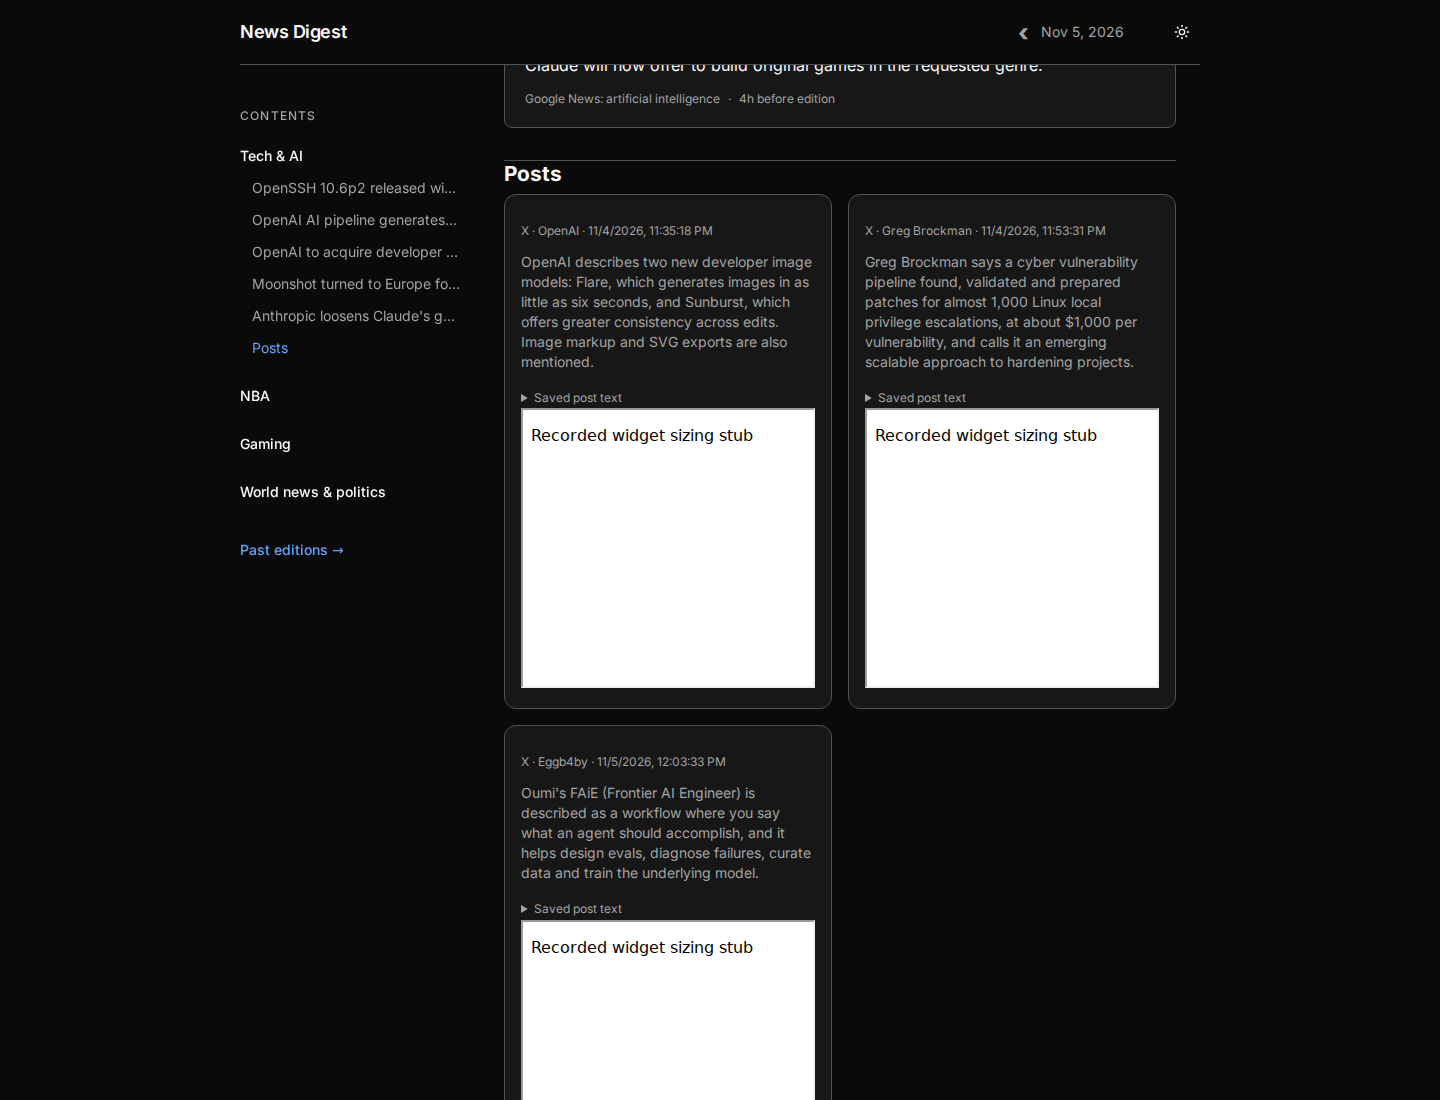
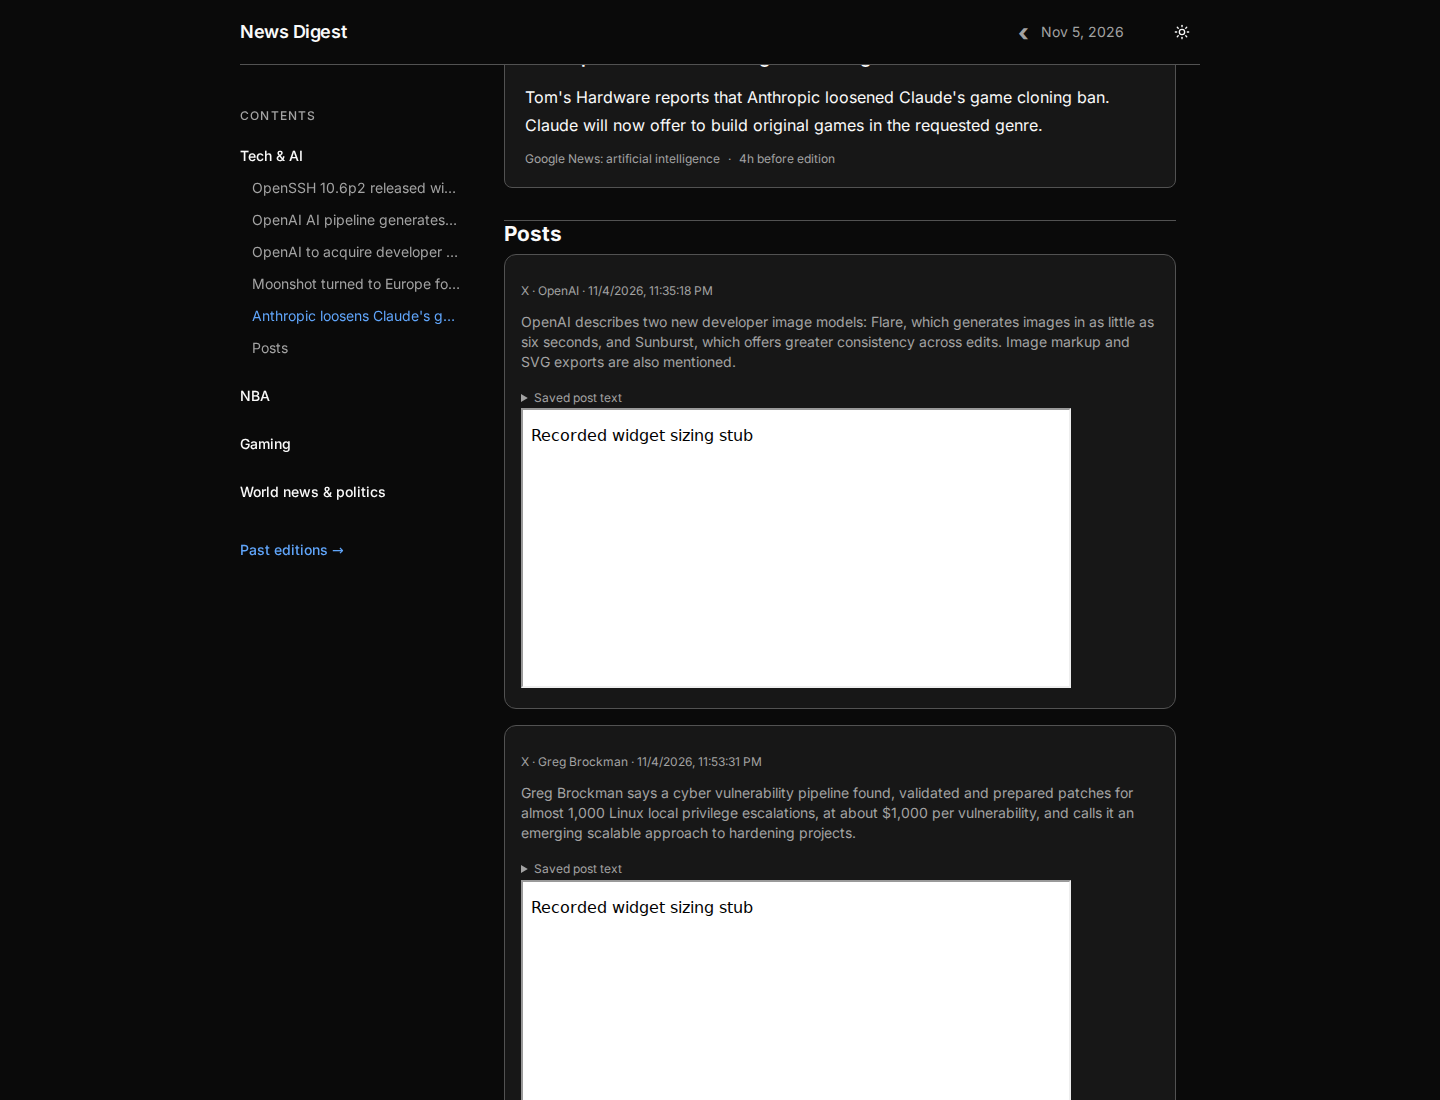
Show reader posts one per row at full column width

Changed region(s): [[0.3438, 0.0618, 0.8125, 0.6491], [0.3438, 0.68, 0.7812, 1.0], [0.1875, 0.2782, 0.3125, 0.3091]]

diff --git a/scripts/smoke-reader-layout.ts b/scripts/smoke-reader-layout.ts
@@ -66,6 +66,22 @@ async function smoke() {
           await page.locator('[data-slot="card"]').count(),
           edition.topics.reduce((n, topic) => n + topic.stories.length, 0),
         );
+        for (const grid of await page.locator('.post-grid').all()) {
+          const cards = await grid.locator('.post-card').all();
+          let previousBottom = 0;
+          for (const card of cards) {
+            const bounds = await card.boundingBox();
+            assert.ok(bounds);
+            assert.ok(bounds.y >= previousBottom, 'Posts occupy separate rows');
+            const gridBounds = await grid.boundingBox();
+            assert.ok(gridBounds);
+            assert.ok(
+              Math.abs(bounds.width - gridBounds.width) < 2,
+              'Each post fills the reader column',
+            );
+            previousBottom = bounds.y + bounds.height;
+          }
+        }
         const expectedContexts = edition.topics.flatMap((topic) =>
           topic.posts.flatMap((post) =>
             post.whyItMatters?.trim() ? [post.whyItMatters] : [],

diff --git a/apps/web/src/TopPosts.tsx b/apps/web/src/TopPosts.tsx
@@ -85,7 +85,7 @@ export function TopPosts({ posts }: { posts: ReaderPost[] }) {
           No standout posts today.
         </p>
       ) : (
-        <div className="post-grid">
+        <div className="post-grid grid grid-cols-1 gap-4">
           {posts.map((post) =>
             post.platform === 'bluesky' ? (
               <BlueskyPost key={`bluesky:${post.externalId}`} post={post} />

diff --git a/apps/web/src/style.css b/apps/web/src/style.css
@@ -586,11 +586,6 @@
     color: var(--secondary);
     font-size: 0.9rem;
   }
-  .post-grid {
-    display: grid;
-    gap: 1rem;
-    grid-template-columns: repeat(auto-fit, minmax(min(100%, 320px), 1fr));
-  }
   .post-card {
     min-width: 0;
     padding: 1rem;

diff --git a/PROGRESS.md b/PROGRESS.md
@@ -1,15 +1,3 @@
-## 2026-11-06: iteration 923 — reader contents and compact story layout
-
-- Started clean on main; no leftover work. Alerts/health green, 36/36 sources healthy, no failed digest runs. Higher priorities await Nov 6 publication/21:00 UTC.
-- Replaced the old edition/history panel with compact 672 px story cards, sticky desktop contents, active-topic/story tracking, mobile topic chips and a Contents sheet. Native hash links support smooth/reduced-motion scrolling and saved-edition deep links.
-- Kept saved briefs/summaries, expandable grouped articles and the archive; removed large story images and edition IDs/system copy from the reader. No changes to selection, collection, budgets or saved editions; no paid calls.
-- Fixed sheet closure by keeping native anchor behavior. Reserved space for the X retry control so media failures no longer shift later topics; offline widget recovery also passed. Live embed sizing remains final-reader work.
-- Verification: pnpm format; pnpm lint:fix; pnpm check (543 unit/224 isolated integration tests); pnpm build; smoke-reader-layout.ts; smoke-reader-story-text.ts with latest saved edition; smoke-reader-archive.ts; smoke-admin-gate.ts; check-handbook.ts for stack/runtime and operations; git diff --check. All passed.
-- New layout smoke checks real saved text, contents tracking, mobile closure, deep links, coverage and no overflow/writes/admin reads. Four desktop/mobile light/dark screenshots saved and inspected in docs/screenshots/ui/reader-layout-*.png. External embeds blocked for deterministic screenshots; recovery uses an explicit offline widget stub.
-- Updated TASKS and affected handbook; archived iterations 909–910 and trimmed repeated done markers. SOURCES/NEEDS_FROM_HUMAN unchanged. Final reader acceptance remains open: date switching, source favicons, post cards/embed sizing and porting legacy inline-history smoke scripts.
-- Rebuilt/restarted API/worker/docs/schema; all active, health/database/Redis green, reader HTTP 200, 36/36 sources healthy and alerts clear. Latest real saved edition remains four topics/17 stories/14 posts.
-- Next: finish reader details while awaiting Nov 6 edition/grouping/cost and Bluesky activation gate; fresh X round after 21:00 UTC. Reserved Bluesky slot and fixed X search remain OFF.
-
 ## 2026-11-06: iteration 924 — linked reader source rows
 
 - Started clean on main; no leftover work. Alerts/health green, 36/36 sources healthy and zero failed digest-generation jobs. Higher priorities await Nov 6 publication/21:00 UTC.
@@ -155,3 +143,15 @@
 - Verification: pnpm exec tsx scripts/smoke-edition-selection.ts; pnpm format; pnpm lint:fix; pnpm check; pnpm build; git diff --check. Final results below.
 - Updated TASKS; no source/system-flow change, paid calls or flags. Next: Nov 6 edition/Bluesky review after publication and X round after 21:00 UTC.
 - Final full check passed (543 unit/224 isolated integration tests); build and eight browser cases passed. Restarted API/worker/docs/schema and checked final health/alerts before handoff.
+
+## 2026-11-06: iteration 938 — full-width reader posts
+
+- Started clean on main; health/database/Redis green and alerts clear. Nov 6 publication and 21:00 UTC X round remain time-gated.
+- Read saved stories/posts across four topics: World breadth and Tech grouping await deployed fixes; desktop posts still used the legacy two-column grid.
+- Owner-visible value: each post now fills one reader row, giving saved text and media the space required by the approved reader design.
+- Replaced the legacy auto-fit grid with Tailwind single-column layout. Retained official X width cap and mobile containment; no selection, collection, spend or flag changes.
+- Verification: pnpm format; pnpm lint:fix; pnpm check; pnpm build; smoke-reader-layout.ts; smoke-post-sizing.ts; git diff --check. Final results below.
+- First browser run caught the old build during rebuild; rerun against completed build passed. Updated desktop widget-sizing screenshots and inspected desktop light/mobile dark; archived iteration 923 to keep this file small.
+- Updated TASKS and STEERING ack. No source/system-flow change; SOURCES, handbook and NEEDS_FROM_HUMAN unchanged.
+- Next: Nov 6 edition World/cost/Bluesky review after publication; X round after 21:00 UTC.
+- Final check passed: 543 unit/224 isolated integration tests, build and both four-view browser replays. All 36 sources healthy; collection jobs completed, services active and health green. Final restart/alerts checked before handoff.

diff --git a/docs/progress-archive/iteration-923.md b/docs/progress-archive/iteration-923.md
@@ -1,0 +1,11 @@
+## 2026-11-06: iteration 923 — reader contents and compact story layout
+
+- Started clean on main; no leftover work. Alerts/health green, 36/36 sources healthy, no failed digest runs. Higher priorities await Nov 6 publication/21:00 UTC.
+- Replaced the old edition/history panel with compact 672 px story cards, sticky desktop contents, active-topic/story tracking, mobile topic chips and a Contents sheet. Native hash links support smooth/reduced-motion scrolling and saved-edition deep links.
+- Kept saved briefs/summaries, expandable grouped articles and the archive; removed large story images and edition IDs/system copy from the reader. No changes to selection, collection, budgets or saved editions; no paid calls.
+- Fixed sheet closure by keeping native anchor behavior. Reserved space for the X retry control so media failures no longer shift later topics; offline widget recovery also passed. Live embed sizing remains final-reader work.
+- Verification: pnpm format; pnpm lint:fix; pnpm check (543 unit/224 isolated integration tests); pnpm build; smoke-reader-layout.ts; smoke-reader-story-text.ts with latest saved edition; smoke-reader-archive.ts; smoke-admin-gate.ts; check-handbook.ts for stack/runtime and operations; git diff --check. All passed.
+- New layout smoke checks real saved text, contents tracking, mobile closure, deep links, coverage and no overflow/writes/admin reads. Four desktop/mobile light/dark screenshots saved and inspected in docs/screenshots/ui/reader-layout-*.png. External embeds blocked for deterministic screenshots; recovery uses an explicit offline widget stub.
+- Updated TASKS and affected handbook; archived iterations 909–910 and trimmed repeated done markers. SOURCES/NEEDS_FROM_HUMAN unchanged. Final reader acceptance remains open: date switching, source favicons, post cards/embed sizing and porting legacy inline-history smoke scripts.
+- Rebuilt/restarted API/worker/docs/schema; all active, health/database/Redis green, reader HTTP 200, 36/36 sources healthy and alerts clear. Latest real saved edition remains four topics/17 stories/14 posts.
+- Next: finish reader details while awaiting Nov 6 edition/grouping/cost and Bluesky activation gate; fresh X round after 21:00 UTC. Reserved Bluesky slot and fixed X search remain OFF.

diff --git a/STEERING.md b/STEERING.md
@@ -1473,3 +1473,5 @@ ack: 2026-11-06 item 33 — iteration 932: the rebuilt archive called a failed r
 ack: 2026-11-06 item 42 — iteration 933: saved X links replaced their post text with a generic accessibility label. Preserve the saved text in the accessible name with author/destination context; browser replay verified desktop/mobile light/dark. No spend or selection changes.
 
 ack: 2026-11-06 item 42 — iteration 935: saved reader content remained visible after refresh failure but the message claimed it could not load (and a 404 claimed it was missing). Show an accurate refresh message and retry; verified existing desktop/mobile light/dark recovery replays. No spend or selection changes.
+
+ack: 2026-11-06 item 33 — iteration 938: replaced legacy two-column desktop posts with one full-width post per row, as approved; saved-content layout and offline widget sizing verified across desktop/mobile light/dark. No spend or selection changes.

diff --git a/TASKS.md b/TASKS.md
@@ -39,6 +39,8 @@ Fix failures first. STEERING overrides older notes. [Prior detail through 846](d
 
 ## Latest verified step
 
+- [x] Full-width reader posts (938): replaced legacy desktop two-column post grid with one post per row; saved-content layout and offline widget sizing verified on desktop/mobile light/dark.
+
 - [x] Saved-edition selection replay (937): restored archive navigation and current reader assertions; a delayed latest-edition success or failure preserves the selected older edition on desktop/mobile light/dark.
 
 - [x] Reader timeout replay (936): ported obsolete inline-history coverage to the archive, preserving stalled-edition retry and real saved-link recovery on desktop/mobile light/dark.
